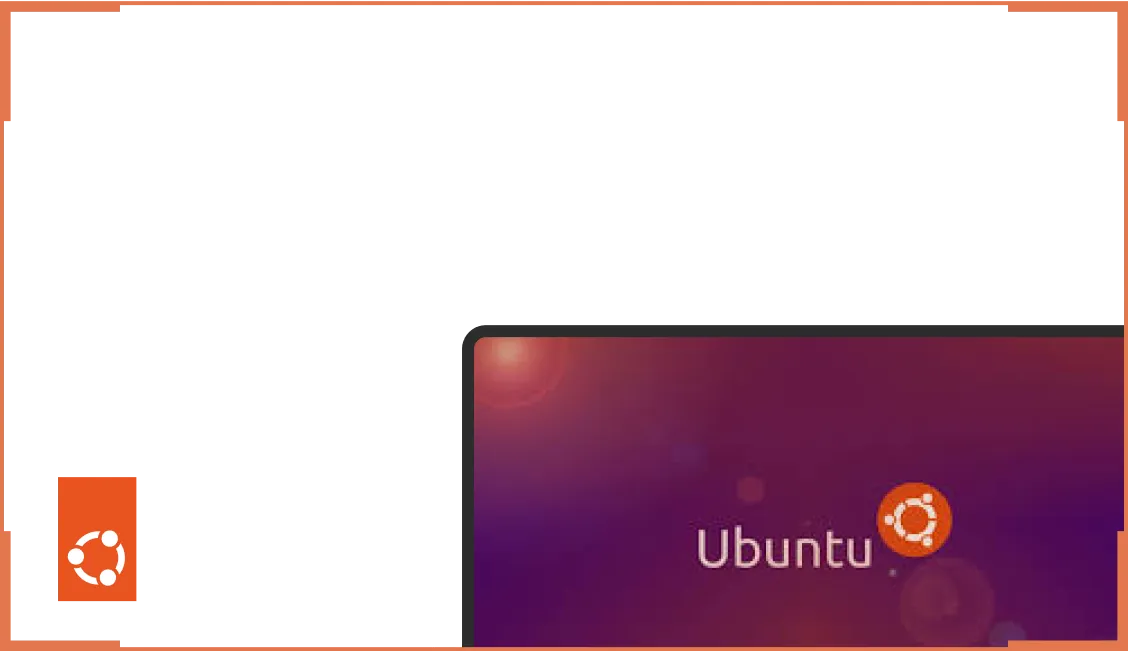
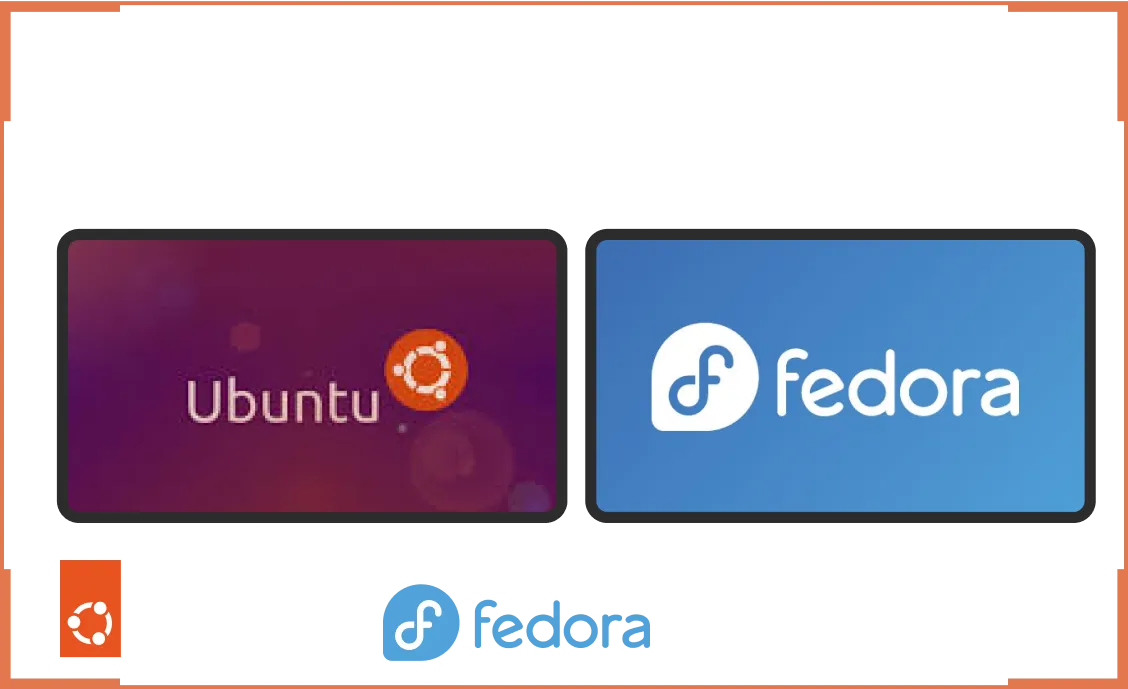
perf: update Jupiter page

diff --git a/src/pages/jupiter/index.js b/src/pages/jupiter/index.js
@@ -57,9 +57,9 @@ export default () => {
                                 </ol>
                             </div>
                             <div className={styles.flex_column}>
-                                <div className={styles.border2}>
+                                <div className={styles.border2} >
                                     <p className={styles.info_title}>Smooth Desktop Experience</p>
-                                    <p className={styles.info_text}>Support optimised Ubuntu OS</p>
+                                    <p className={styles.info_text}>Support optimised Ubuntu / Fedora OS</p>
                                 </div>
                                 <div className={styles.border3}>
                                     <p className={styles.info_title}>Supports CASA OS</p>

diff --git a/src/pages/jupiter/index.module.css b/src/pages/jupiter/index.module.css
@@ -1347,7 +1347,15 @@
     }
 
     .tabBox_tech2 {
-        width: 350rem !important;
+        width: 95% !important;
+    }
+
+    .jupiter_table {
+        overflow: hidden;
+    }
+
+    .jupiter_table td {
+        max-width: 250rem;
     }
 
     .jupiter_title>a {
